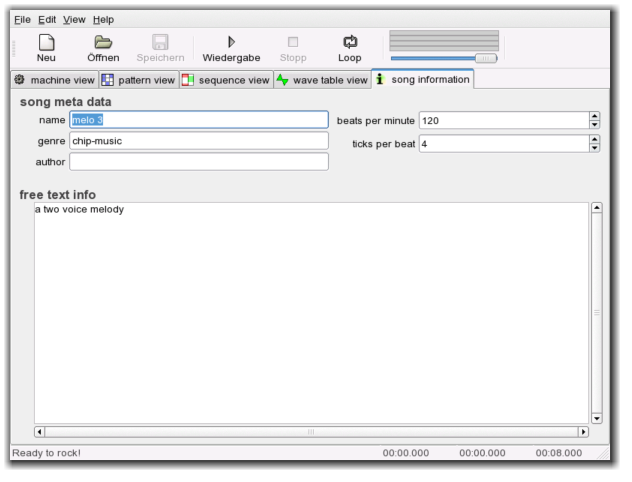
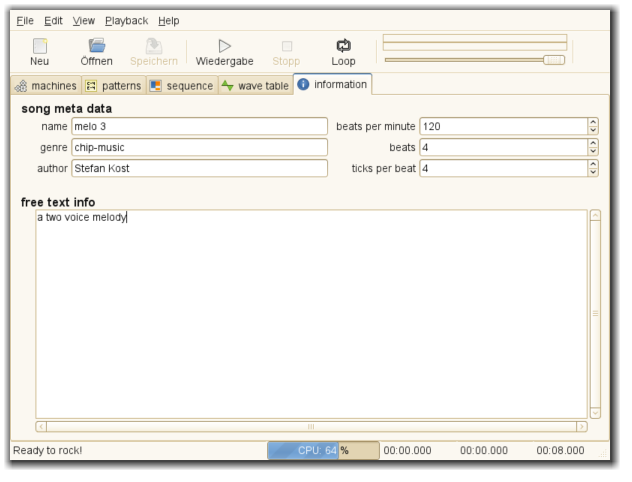
* NEWS: 	  Updating NEWS. 	* docs/help/bt-edit/C/figures/page-info-view.png: 	  New screenshot. 	* src/lib/core/wire.c: 	  Better logging.

Changed region(s): [[0.0, 0.0311, 0.962, 0.9647]]

diff --git a/src/lib/core/wire.c b/src/lib/core/wire.c
@@ -502,7 +502,6 @@ static gboolean bt_wire_link_machines(const BtWire * const self) {
           GST_DEBUG("created panorama/balance element for wire : %p '%s' -> %p '%s'",
             self->priv->src->src_elem,GST_OBJECT_NAME(self->priv->src->src_elem),
             self->priv->dst->dst_elem,GST_OBJECT_NAME(self->priv->dst->dst_elem));
-          // @todo: the panorama of my laptop is quirky :/
           g_object_set(G_OBJECT (machines[PART_PAN]),"method",1,NULL);
         }
       }
@@ -511,7 +510,7 @@ static gboolean bt_wire_link_machines(const BtWire * const self) {
   }
   gst_object_unref(dst_machine);
   
-  GST_DEBUG("trying to link machines directly : %p '%s' -> %p '%s'",src->src_elem,GST_OBJECT_NAME(src->src_elem),dst->dst_elem,GST_OBJECT_NAME(dst->dst_elem));
+  GST_DEBUG("trying to link machines : %p '%s' -> %p '%s'",src->src_elem,GST_OBJECT_NAME(src->src_elem),dst->dst_elem,GST_OBJECT_NAME(dst->dst_elem));
   /* if we try linking without audioconvert and this links to an adder,
    * then the first link enforces the format (if first is mono and later stereo
    * signal is linked, this is downgraded).
@@ -526,6 +525,7 @@ static gboolean bt_wire_link_machines(const BtWire * const self) {
     GST_DEBUG("trying to link machines with pan");
     if(!(res=gst_element_link_many(src->src_elem, machines[PART_QUEUE], machines[PART_TEE], machines[PART_GAIN], machines[PART_CONVERT], machines[PART_PAN], dst->dst_elem, NULL))) {
       gst_element_unlink_many(src->src_elem, machines[PART_QUEUE], machines[PART_TEE], machines[PART_GAIN], machines[PART_CONVERT], machines[PART_PAN], dst->dst_elem, NULL);
+      GST_WARNING("failed to link machines with pan");
     }
     else {
       machines[PART_SRC]=machines[PART_QUEUE];
@@ -537,6 +537,7 @@ static gboolean bt_wire_link_machines(const BtWire * const self) {
     GST_DEBUG("trying to link machines without pan");
     if(!(res=gst_element_link_many(src->src_elem, machines[PART_QUEUE], machines[PART_TEE], machines[PART_GAIN], machines[PART_CONVERT], dst->dst_elem, NULL))) {
       gst_element_unlink_many(src->src_elem, machines[PART_QUEUE], machines[PART_TEE], machines[PART_GAIN], machines[PART_CONVERT], dst->dst_elem, NULL);
+      GST_WARNING("failed to link machines without pan");
     }
     else {
       machines[PART_SRC]=machines[PART_QUEUE];
@@ -545,7 +546,7 @@ static gboolean bt_wire_link_machines(const BtWire * const self) {
     }
   }
   if(!res) {
-    GST_DEBUG("failed to link the machines");
+    GST_INFO("failed to link the machines");
     // print out the content of both machines (using GST_DEBUG)
     bt_machine_dbg_print_parts(src);bt_machine_dbg_print_parts(dst);
   }
@@ -716,7 +717,8 @@ static gboolean bt_wire_connect(const BtWire * const self) {
   GST_DEBUG("link prepared, bin->refs=%d, src->refs=%d, dst->refs=%d",G_OBJECT(self->priv->bin)->ref_count,G_OBJECT(src)->ref_count,G_OBJECT(dst)->ref_count);
 
   if(!bt_wire_link_machines(self)) {
-    GST_ERROR("linking machines failed");goto Error;
+    GST_ERROR("linking machines failed : %p '%s' -> %p '%s'",src->src_elem,GST_OBJECT_NAME(src->src_elem),dst->dst_elem,GST_OBJECT_NAME(dst->dst_elem));
+    goto Error;
   }
   else {
     // register params
